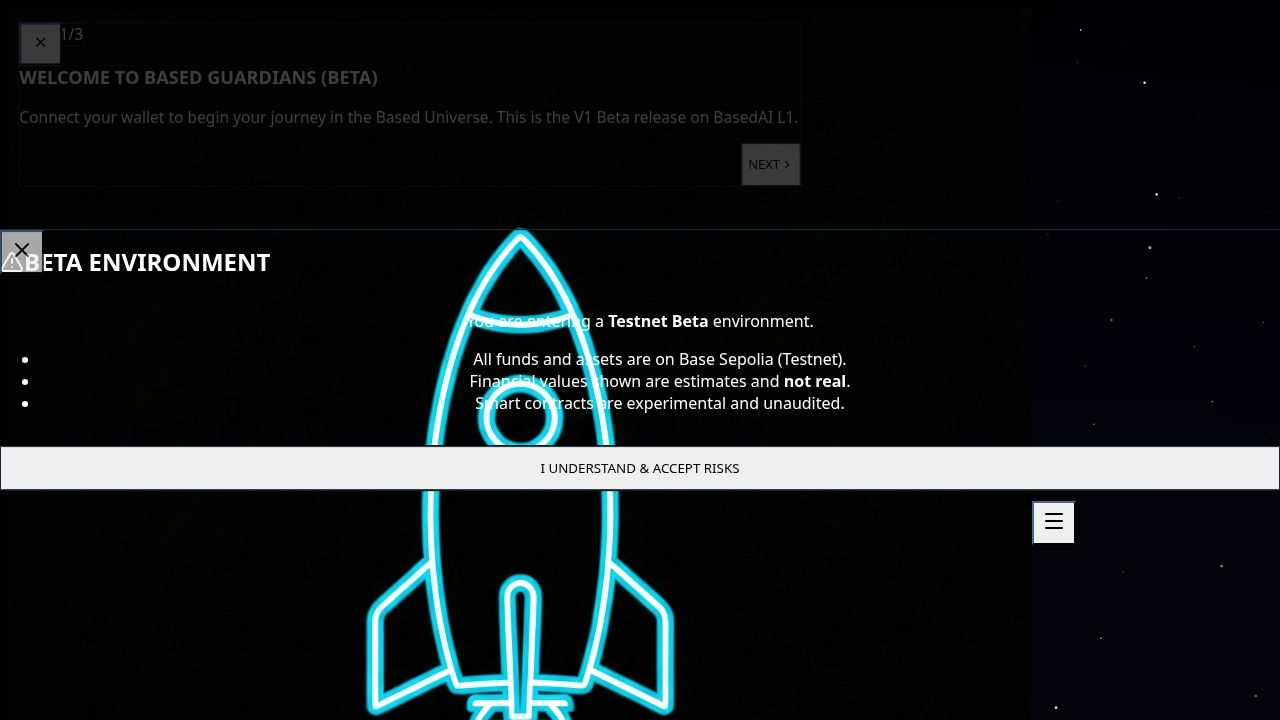
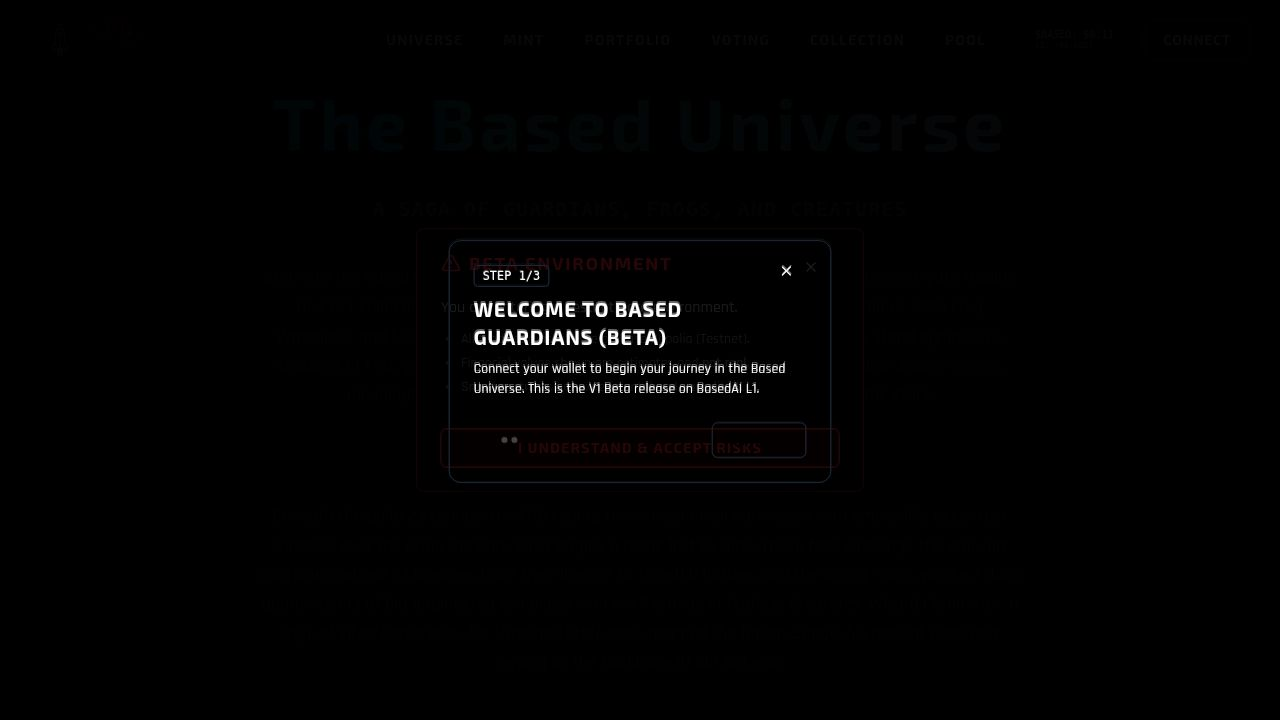
Update fonts and polish user experience while preserving design
Downgrade React to v18.3.1, integrate Google Fonts (Exo 2 and Rajdhani), update typography for headers and body text, and apply mobile UX optimizations.

Replit-Commit-Author: Agent
Replit-Commit-Session-Id: c1cfa060-9d68-4c49-99fa-7c4f93688bf4
Replit-Commit-Checkpoint-Type: full_checkpoint
Replit-Commit-Event-Id: f2cde412-fe52-43da-88f8-4070d6e6b8f5
Replit-Commit-Screenshot-Url: https://storage.googleapis.com/screenshot-production-us-central1/10a6e0fa-1f47-4886-8e88-feb45f81e56b/c1cfa060-9d68-4c49-99fa-7c4f93688bf4/aRAaeKF
Replit-Helium-Checkpoint-Created: true

diff --git a/client/src/index.css b/client/src/index.css
@@ -1,5 +1,13 @@
 @import "tailwindcss";
 
+@theme {
+  --font-orbitron: 'Exo 2', sans-serif;
+  --font-display: 'Exo 2', sans-serif;
+  --font-sans: 'Rajdhani', sans-serif;
+  --font-body: 'Rajdhani', sans-serif;
+  --font-mono: ui-monospace, SFMono-Regular, Menlo, Monaco, Consolas, "Liberation Mono", "Courier New", monospace;
+}
+
 @layer base {
   :root {
     --background: 0 0% 0%; /* Black background */
@@ -47,6 +55,28 @@
     padding-bottom: env(safe-area-inset-bottom);
     padding-left: env(safe-area-inset-left);
     padding-right: env(safe-area-inset-right);
+    font-family: 'Rajdhani', sans-serif;
+    font-weight: 500;
+    line-height: 1.6;
+    font-size: 0.875rem; /* text-sm default for mobile */
+  }
+
+  @media (min-width: 768px) {
+    body {
+      font-size: 1rem; /* text-base for desktop */
+    }
+  }
+
+  h1, h2, h3, h4, h5, h6, .font-orbitron, .tab-name {
+    font-family: 'Exo 2', sans-serif;
+    font-weight: 700;
+    letter-spacing: 0.05em;
+    line-height: 1.4;
+  }
+  
+  /* Ensure code elements keep monospace */
+  code, pre, .font-mono {
+    font-family: ui-monospace, SFMono-Regular, Menlo, Monaco, Consolas, "Liberation Mono", "Courier New", monospace;
   }
   
   /* Mobile optimizations */

diff --git a/client/index.html b/client/index.html
@@ -27,7 +27,7 @@
 
     <link rel="preconnect" href="https://fonts.googleapis.com">
     <link rel="preconnect" href="https://fonts.gstatic.com" crossorigin>
-    <link href="https://fonts.googleapis.com/css2?family=Orbitron:wght@400;500;700;900&family=Rajdhani:wght@300;400;500;600;700&family=Inter:wght@300;400;500;600&display=swap" rel="stylesheet">
+    <link href="https://fonts.googleapis.com/css2?family=Exo+2:wght@700&family=Rajdhani:wght@500&display=swap" rel="stylesheet">
     
     <!-- Google Analytics Placeholder -->
     <script async src="https://www.googletagmanager.com/gtag/js?id=G-XXXXXXXXXX"></script>
